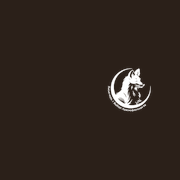
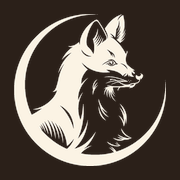
Strip curved text from fox mark and enlarge header emblem.
Regenerate favicon/logo assets as fox+moon only on brand dark, and bump FoxMark display sizes for readability.

Changed region(s): [[0.0556, 0.0556, 0.9444, 0.9444], [0.5278, 0.5556, 0.6111, 0.6667], [0.5, 0.4444, 0.5556, 0.5278]]

diff --git a/src/components/site/FoxMark.tsx b/src/components/site/FoxMark.tsx
@@ -7,7 +7,7 @@ interface FoxMarkProps {
 }
 
 /**
- * Фирменная эмблема из Logo.pdf: лиса в серпе луны + адрес магазина.
+ * Фирменная эмблема из Logo.pdf: только лиса в серпе луны (без дугового текста).
  * Растровая версия — PDF векторный, но без точной трассировки SVG надёжнее PNG/WebP.
  */
 export function FoxMark({ className, variant = 'dark' }: FoxMarkProps) {
@@ -21,8 +21,8 @@ export function FoxMark({ className, variant = 'dark' }: FoxMarkProps) {
       className={className ? `fox-mark ${className}` : 'fox-mark'}
       src={src}
       alt=""
-      width={92}
-      height={92}
+      width={132}
+      height={132}
       decoding="async"
       aria-hidden="true"
       draggable={false}

diff --git a/src/styles/site.css b/src/styles/site.css
@@ -39,8 +39,8 @@
 
 .site-header__brand .fox-mark,
 .fox-mark {
-  width: 92px;
-  height: 92px;
+  width: 132px;
+  height: 132px;
   object-fit: contain;
   flex-shrink: 0;
   display: block;
@@ -48,8 +48,8 @@
 
 @media (max-width: 479px) {
   .site-header__brand .fox-mark {
-    width: 72px;
-    height: 72px;
+    width: 104px;
+    height: 104px;
   }
 }
 
@@ -1528,8 +1528,8 @@
 }
 
 .site-footer__brand .fox-mark {
-  width: 96px;
-  height: 96px;
+  width: 128px;
+  height: 128px;
 }
 
 .site-footer__links {
@@ -1624,8 +1624,8 @@
 }
 
 .legal-page__brand .fox-mark {
-  width: 72px;
-  height: 72px;
+  width: 104px;
+  height: 104px;
 }
 
 .legal-page__content {

diff --git a/src/styles/admin.css b/src/styles/admin.css
@@ -31,8 +31,8 @@
 }
 
 .admin-topbar__brand .fox-mark {
-  width: 72px;
-  height: 72px;
+  width: 96px;
+  height: 96px;
   flex-shrink: 0;
 }
 
@@ -537,8 +537,8 @@
 }
 
 .admin-login-card .fox-mark {
-  width: 104px;
-  height: 104px;
+  width: 132px;
+  height: 132px;
   margin: 0 auto 14px;
 }
 
